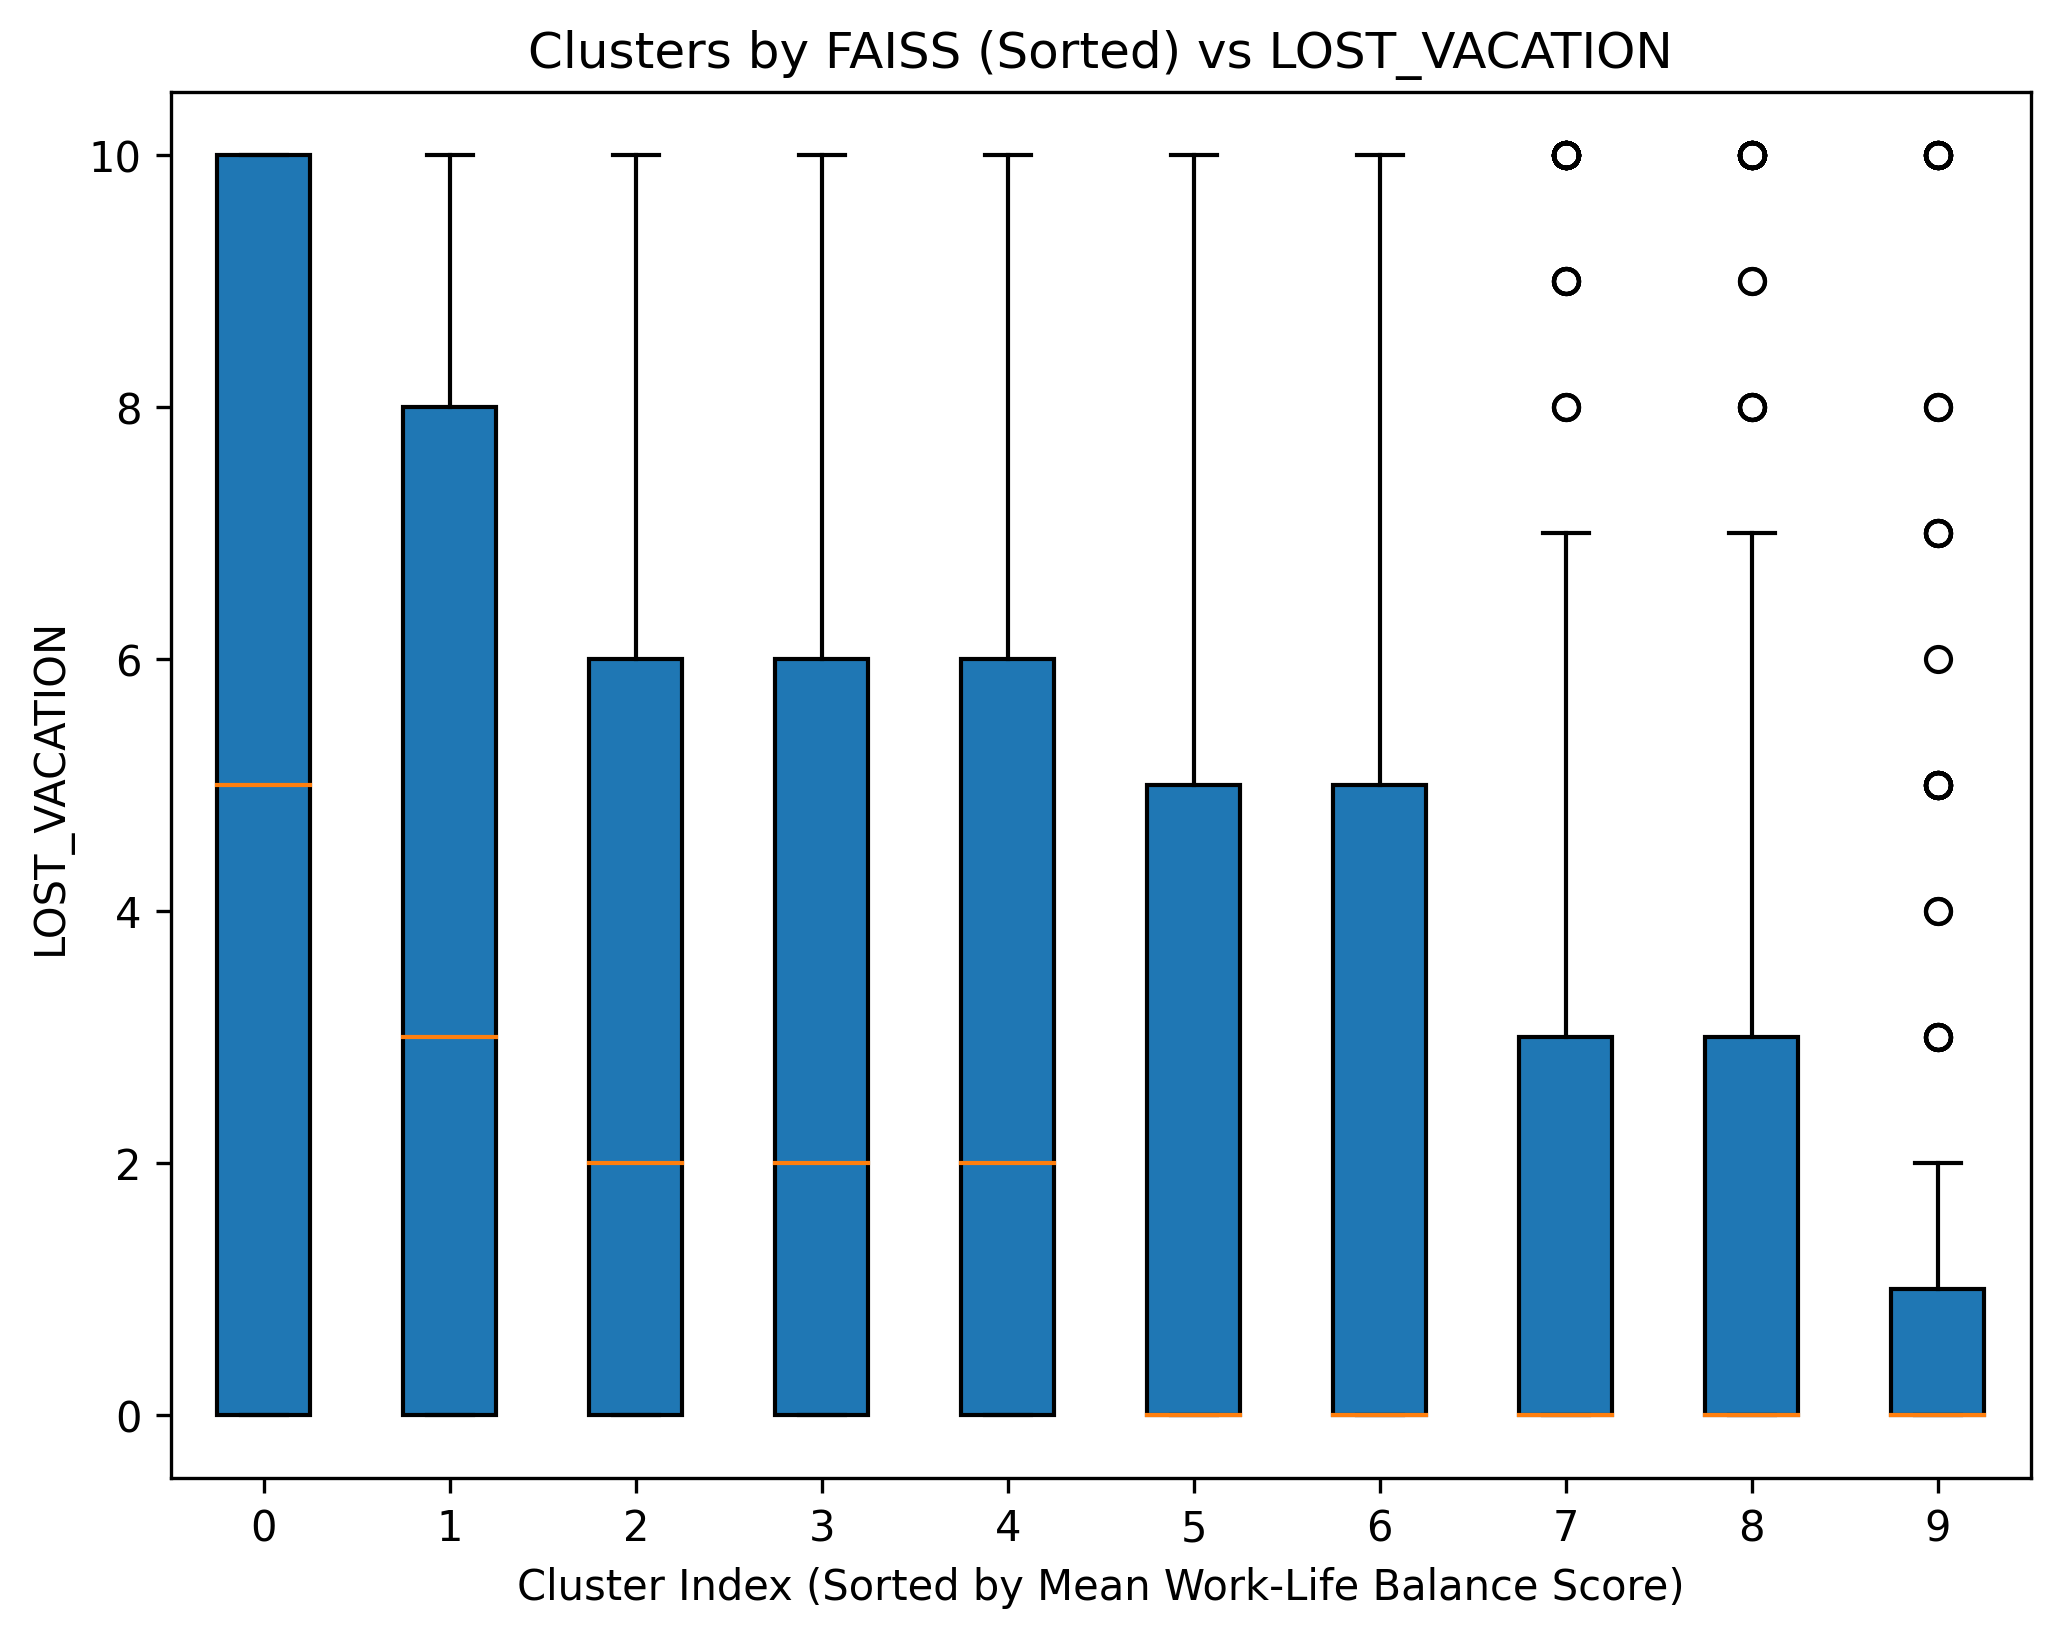
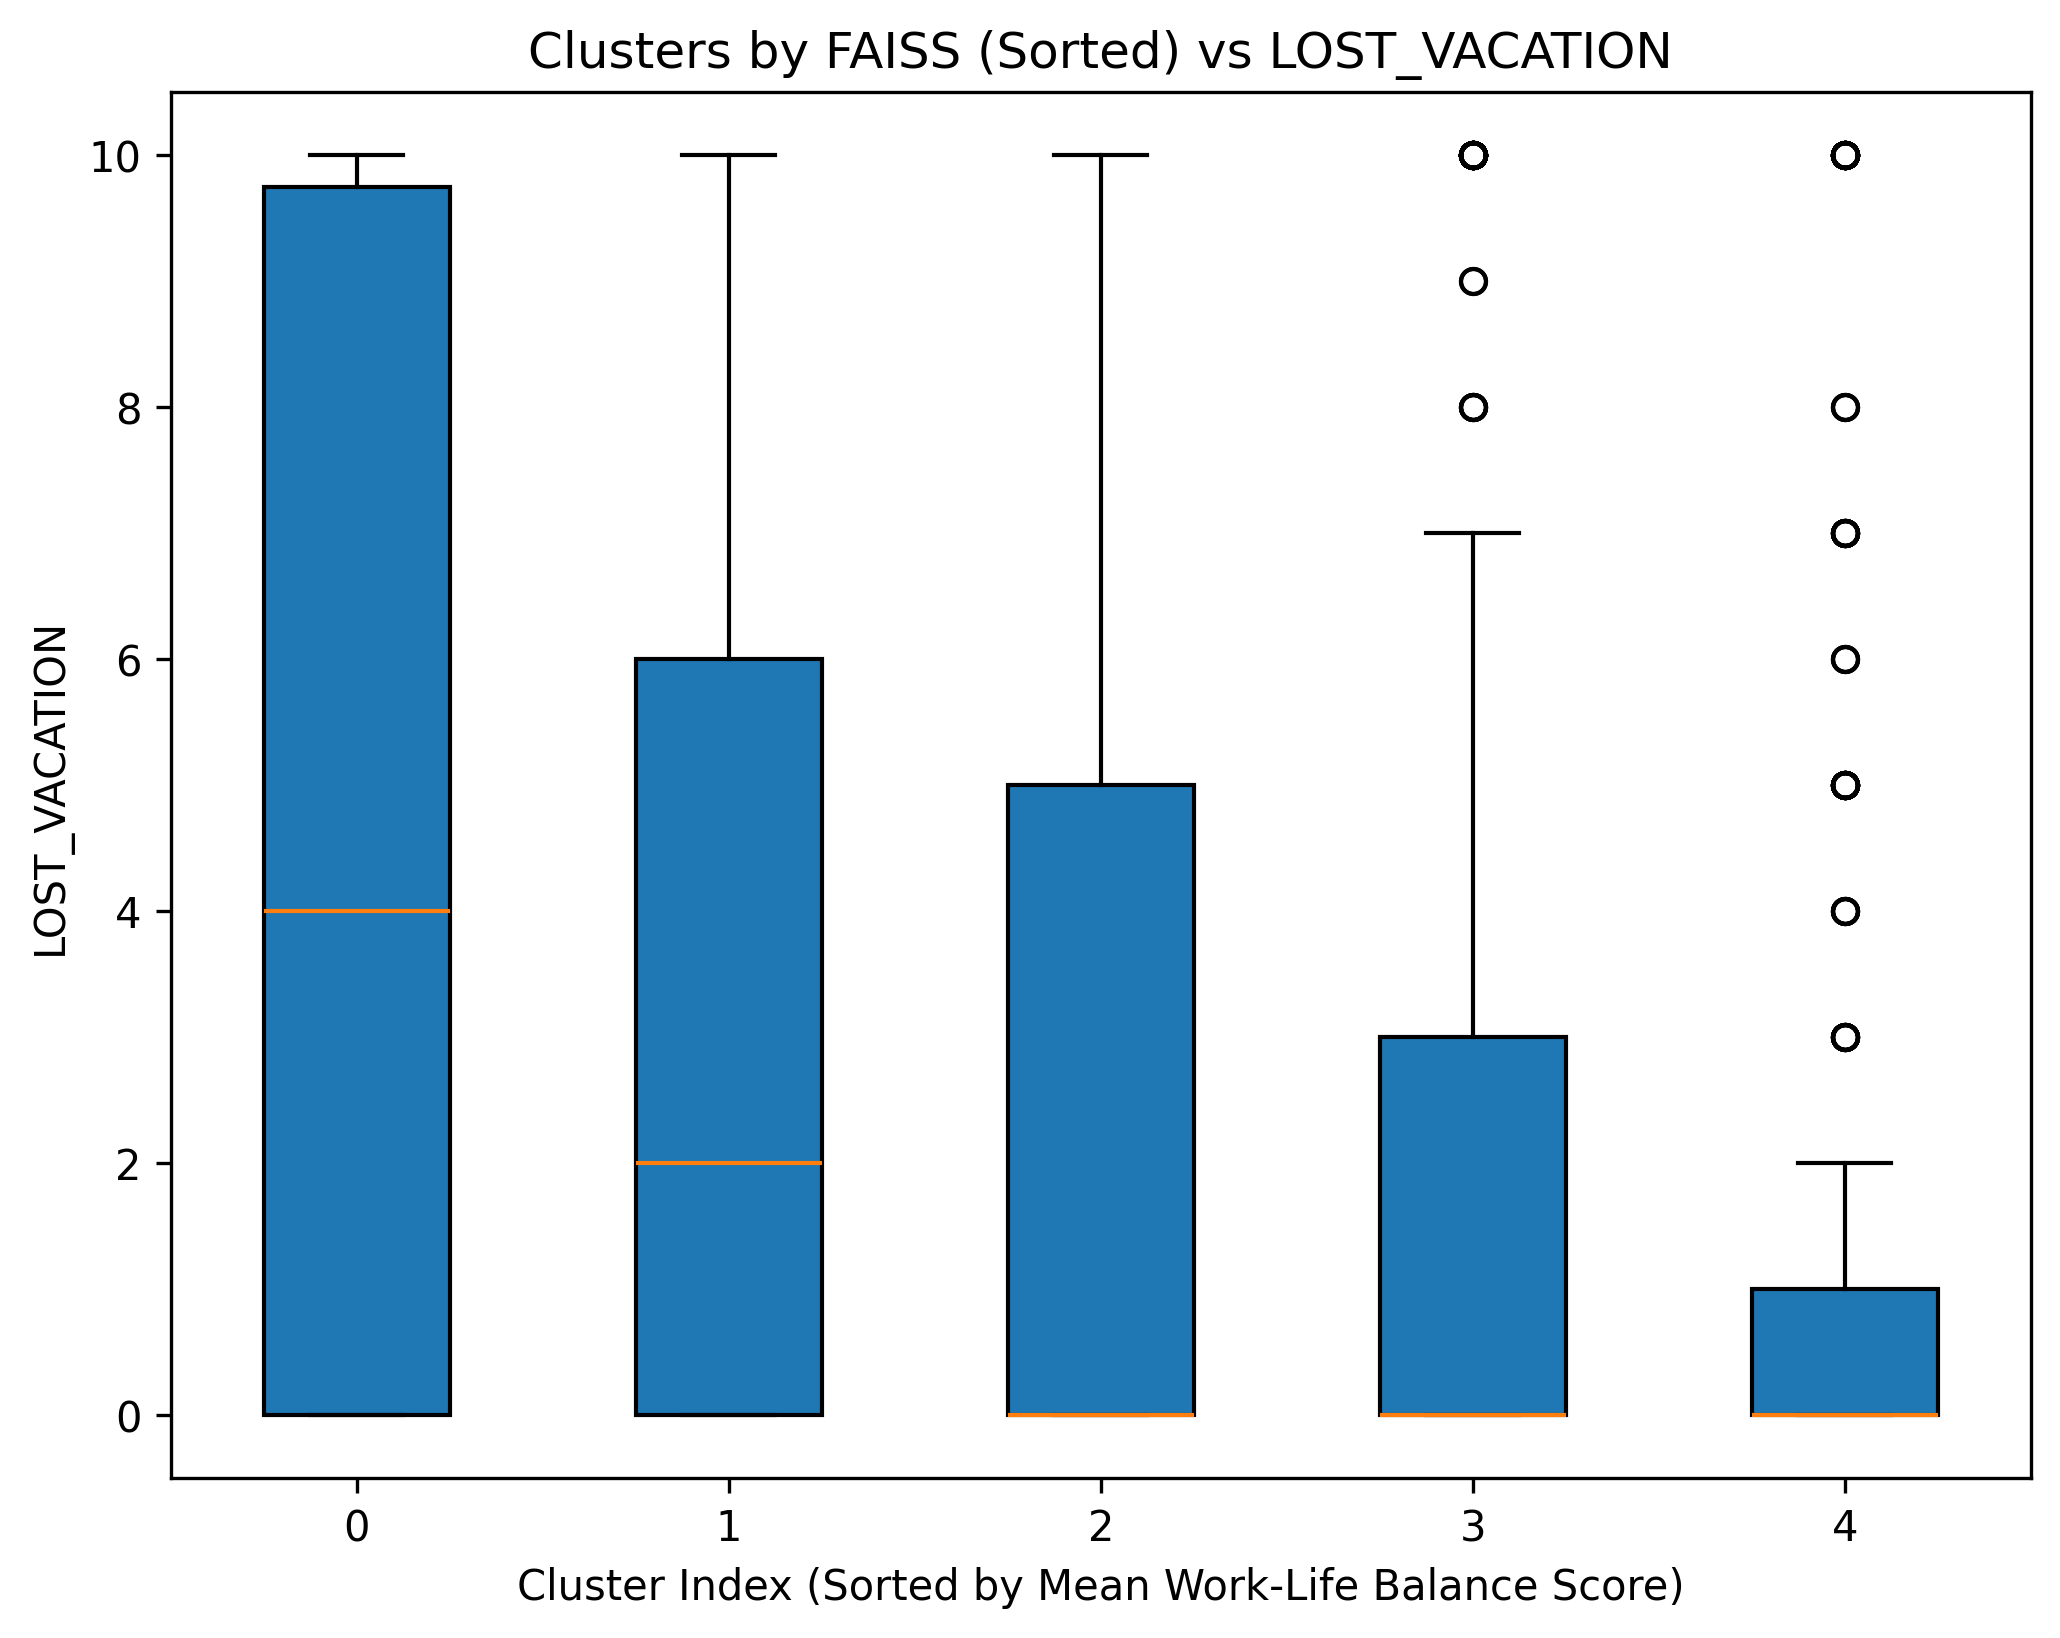
faiss plots w 5 clusters

diff --git a/utils.py b/utils.py
@@ -132,15 +132,21 @@ def plot_faiss_clusters(cluster_assignments=None, target=None):
     sorted_cluster_assignments = np.array([sorted_mapping[cluster] for cluster in cluster_assignments])
     
     plt.figure(figsize=(8, 6))
-    scatter = plt.scatter(
-        sorted_cluster_assignments, target, 
-        alpha=0.7, c=sorted_cluster_assignments, cmap='viridis'
-    )
+    # scatter = plt.scatter(
+    #     sorted_cluster_assignments, target, 
+    #     alpha=0.7, c=sorted_cluster_assignments, cmap='viridis'
+    # )
+    unique_clusters = sorted(set(sorted_cluster_assignments))  # Unique cluster indices
+    grouped_targets = [
+        [target[i] for i in range(len(sorted_cluster_assignments)) if sorted_cluster_assignments[i] == cluster]
+        for cluster in unique_clusters
+    ]
+    plt.boxplot(grouped_targets, positions=unique_clusters, widths=0.6, patch_artist=True)
     plt.title("Clusters by FAISS (Sorted by Mean Work-Life Balance)")
     plt.xlabel("Cluster Index (Sorted by Mean)")
     plt.ylabel("Work-Life Balance Score")
     plt.xticks(range(len(sorted_clusters)), labels=[f"{i}" for i in range(len(sorted_clusters))])
-    plt.savefig("faiss_clusters.png")
+    plt.savefig("faiss_clusters_5.png")
 
 def plot_clusters_vs_features(cluster_assignments, features, target=None, output_dir="plots", filename_prefix="cluster_vs_feature"):
     os.makedirs(output_dir, exist_ok=True)

diff --git a/main.py b/main.py
@@ -40,7 +40,7 @@ similarity_graph = utils.get_similarity_graph(embeddings)
 # louvain_clusters = utils.get_clusters(similarity_graph, threshold=0.5, method="louvain")
 
 
-num_clusters = 10
+num_clusters = 5
 # faiss clustering
 faiss_clusters = utils.get_clusters(method="faiss", embeddings=embeddings, k=num_clusters)
 # index: data index; elements: corresponding cluster indices
